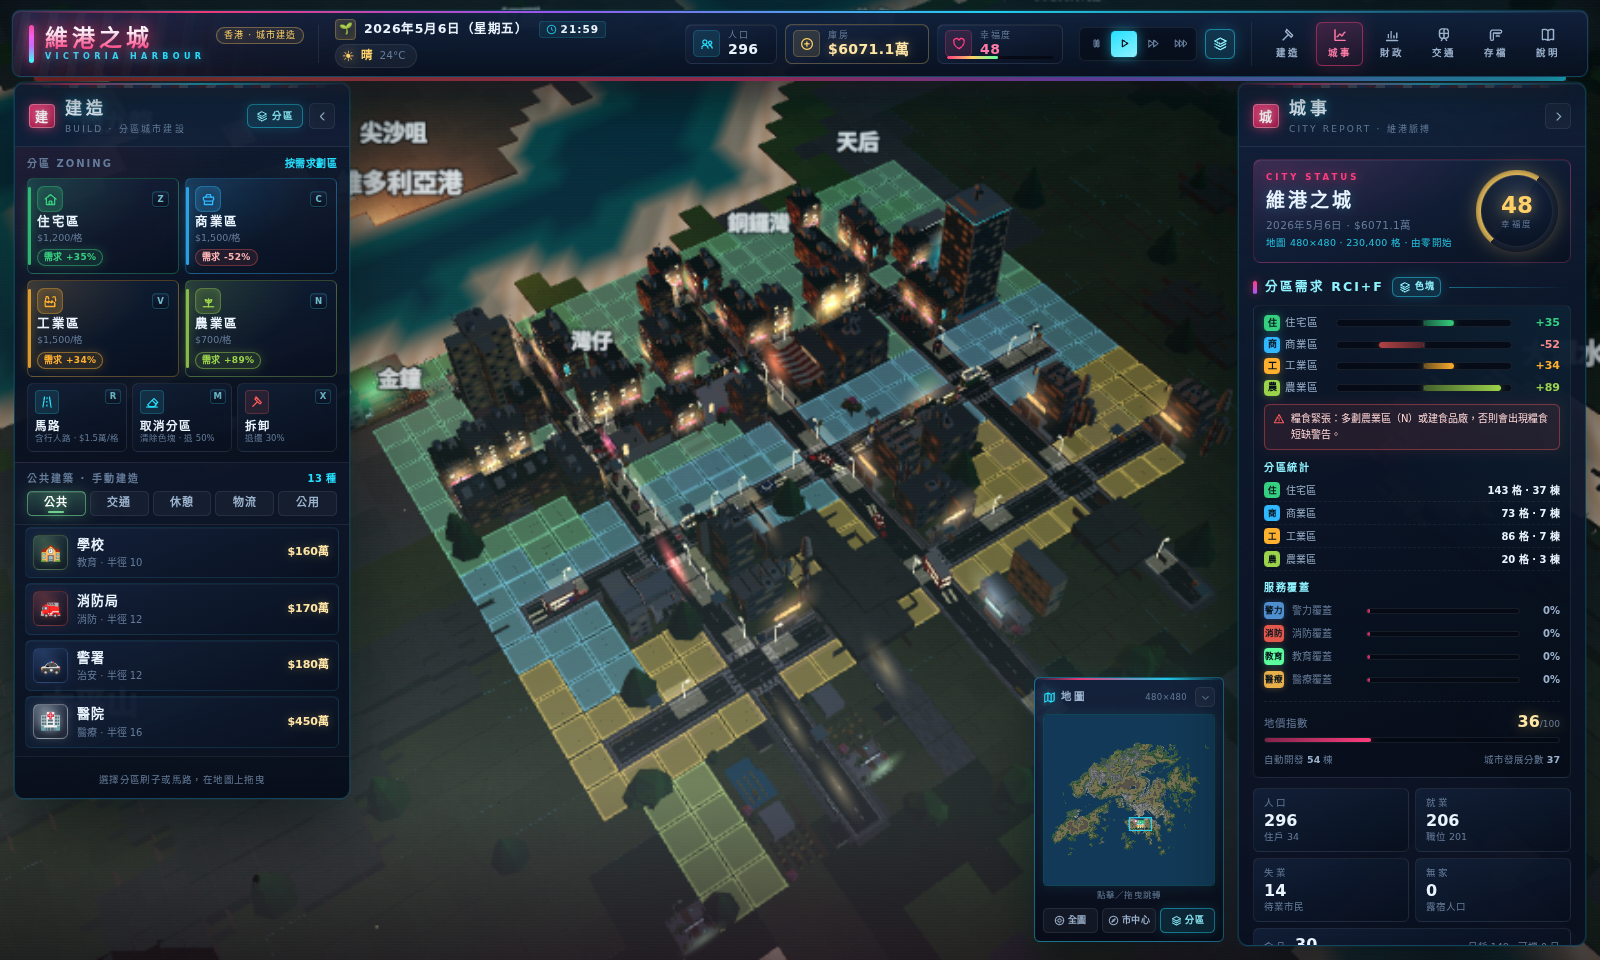
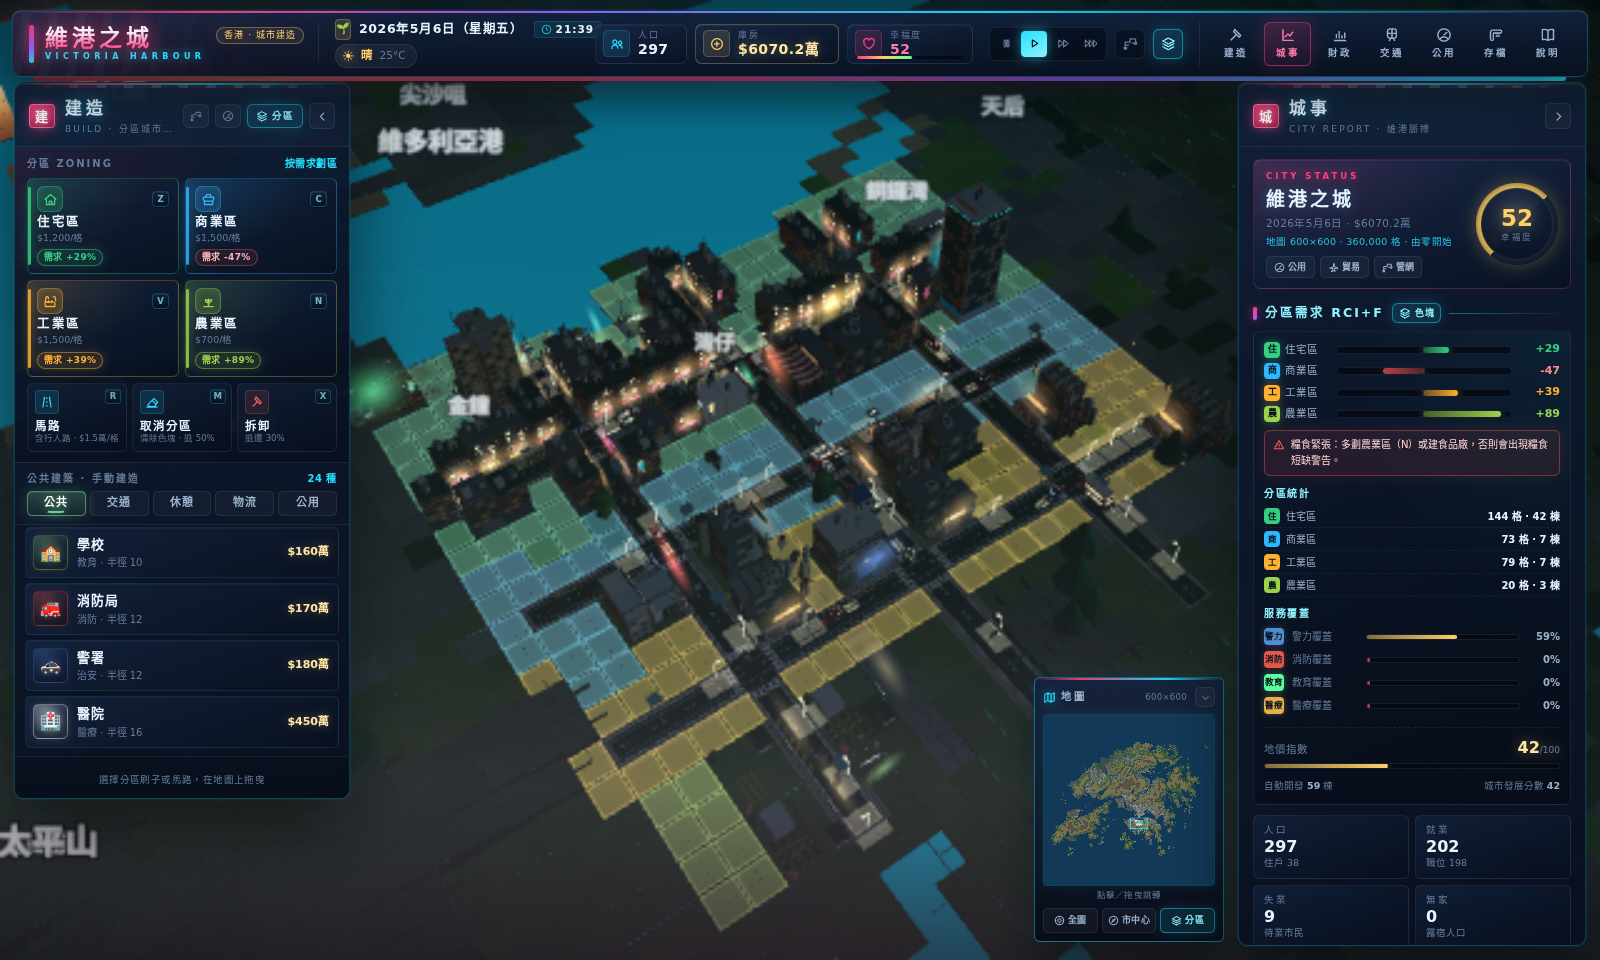
Round 5 final: 600 real-geo screenshots (underground/utility/transit/trade/reservoir), README; verified live Cloudflare 600 starter with utilities

diff --git a/README.md b/README.md
@@ -99,6 +99,26 @@ npm run preview    # 預覽生產建置：http://127.0.0.1:4273
 
 **新手五步（分區玩法）**：鋪馬路（已含行人路）→ 劃住宅區（Z）→ 劃商業區（C）／工業區（V）／農業區（N）→ 建公共設施（警署、消防局、學校、醫院、發電廠、水務）→ 看 RCI+F 需求條平衡城市、調稅率與擴展交通。
 
+## 截圖
+
+| **真實 600×600 全港 overview** | **東區：杏花邨／柴灣／小西灣** |
+|---|---|
+| ![地圖](docs/screenshots/map.png) | ![東區](docs/screenshots/east.png) |
+| **地下管網（U）** | **公用設施面板** |
+| ![地下管網](docs/screenshots/underground.png) | ![公用設施](docs/screenshots/utility.png) |
+| **巴士／小巴路線 overlay** | **交通／路線管理面板** |
+| ![路線](docs/screenshots/transit-route.png) | ![路線管理](docs/screenshots/transit-lines.png) |
+| **機場／貨櫃碼頭貿易面板** | **水塘（船灣淡水湖）** |
+| ![貿易](docs/screenshots/trade.png) | ![水塘](docs/screenshots/reservoir.png) |
+| **走進建築室內（機場離境大堂）** | **維港夜景** |
+| ![室內](docs/screenshots/interior.png) | ![夜景](docs/screenshots/night.png) |
+| **颱風襲港** | **寒潮雪景** |
+| ![颱風](docs/screenshots/typhoon.png) | ![雪景](docs/screenshots/snow.png) |
+| **由零開始：完全空地圖** | **開局：600×600 真實地理** |
+| ![空地圖](docs/screenshots/empty.png) | ![開局](docs/screenshots/start.png) |
+
+> 更多截圖（市區、分區、財務、暴雨、存檔、手機版）見 [`docs/screenshots/`](docs/screenshots/)。
+
 ## 開發
 
 ```bash
@@ -117,16 +137,13 @@ npm run verify:mobile  # 手機介面與觸控驗收
 ```
 src/
   core/      型別、香港建築／資源資料表（config）、狀態管理、存檔、開新局、格式化
-  world/     香港地圖程序化生成（維港、山脈、離島、填海、隧道、預設市中心）
-  sim/       模擬：時間天氣、市民、人口、物流、生產、交通、財政、統計、尋路、擺放
-  render/    three.js：城市視圖、地形、道路行人路、建築、市民、車輛、環境、室內、模型庫
-  ui/        DOM 介面：頂欄、建造、城事、財政、交通、存檔／教學、室內面板、手機版
   world/     真實地理數據（hk-map-data.generated.ts）＋世界生成
+  sim/       模擬：時間天氣、市民、人口、物流、生產、公用管網（utilities.ts）、
+             巴士小巴路線（transit.ts／vehicles.ts）、機場碼頭貿易（trade.ts）、財政、統計、尋路
+  render/    three.js：城市視圖、地形、道路、建築、市民、車輛、環境、地下管網、路線 overlay、室內、模型庫
+  ui/        DOM 介面：頂欄、建造、城事、財政、交通／路線、公用設施、貿易、存檔／教學、室內、手機版
   main.ts    組裝 actions、主迴圈、存檔排程
-tools/       真實地理數據離線生成腳本（DTM 5m／建築輪廓／水塘／土地利用）
-src/sim/utilities.ts  地下管網（水/污水/電力 BFS、容量、管道成本）
-src/sim/transit.ts／vehicles.ts  巴士小巴路線管理、路線車輛
-src/sim/trade.ts      機場／貨櫃碼頭貿易結算
+tools/       真實地理數據離線生成腳本（DTM 5m／建築輪廓／水塘／土地利用）＋tools/data
 docs/        研究、GDD、技術架構、多 Agent 開發報告、截圖
 tests/       vitest 單元與整合測試
 scripts/     截圖與自動驗收工具
